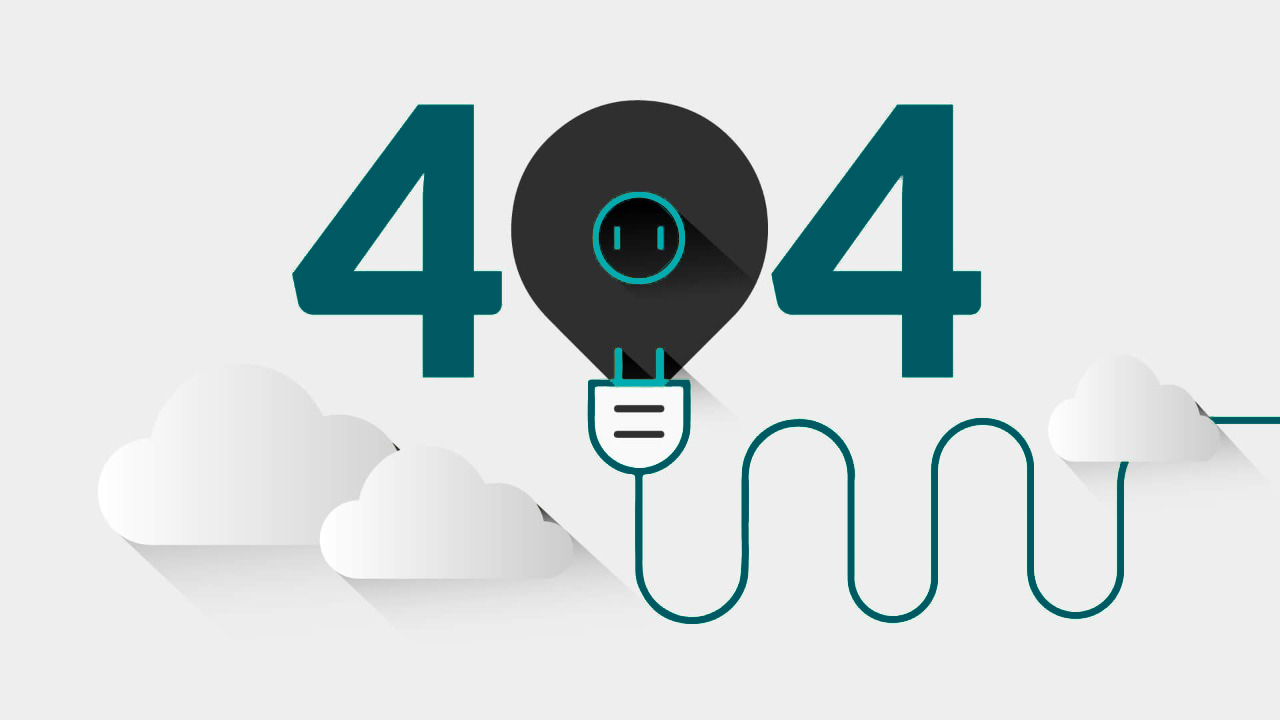
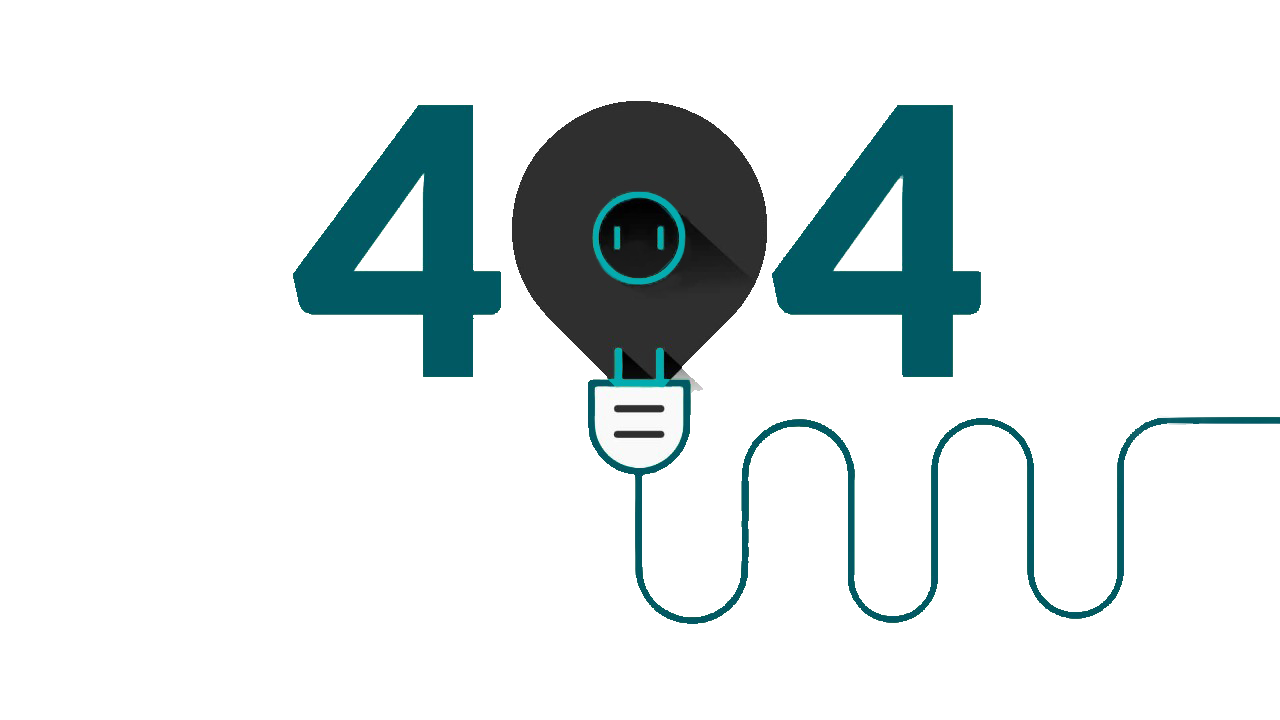
animation done

diff --git a/src/features/account/SignUpForm.jsx b/src/features/account/SignUpForm.jsx
@@ -1,12 +1,31 @@
 import React from 'react'
 import './account.scss'
-import { Link } from 'react-router-dom'
+import { Link, useHistory } from 'react-router-dom'
 import { Formik, Form } from 'formik'
 import * as Yup from 'yup'
-import { Container, Icon, Label, Button } from 'semantic-ui-react'
+import { Container, Icon, Button } from 'semantic-ui-react'
 import { MyInputField } from './MyInputFields.jsx'
+import { toast, Slide } from 'react-toastify'
+import 'react-toastify/dist/ReactToastify.css'
+import { registerInFirebase } from '../../app/firestore/firebaseService'
 
-export const SignUpForm = ({showOptions}) => {
+export const SignUpForm = ({ showOptions }) => {
+    
+    const history = useHistory()
+    const showError = (message) => {
+        toast.error(message, {
+            position: "bottom-center",
+            autoClose: 3000,
+            hideProgressBar: true,
+            closeOnClick: false,
+            pauseOnHover: false,
+            draggable: false,
+            progress: undefined,
+            transition: Slide,
+            theme: 'colored',
+            pauseOnFocusLoss: false
+        })
+    }
     
     return (
         <div className='signup-form'>
@@ -17,7 +36,7 @@ export const SignUpForm = ({showOptions}) => {
                     initialValues={{email: '', password: ''}}
                     validationSchema={
                         Yup.object({
-                            username: Yup.string().required('Username is required!'),
+                            displayName: Yup.string().required('Username is required!'),
                             email: Yup.string().required('Email is required!').email('Please enter a valid email!'),
                             password: Yup.string().required('Password is required!').matches(
                                 /^(?=.*[A-Z])/, 'Password must contain one uppercase letter!').matches(
@@ -27,18 +46,26 @@ export const SignUpForm = ({showOptions}) => {
                                 'Confirm Password is required!')
                         })
                     }
-                    onSubmit={(values, {setSubmitting}) => {
-                        setSubmitting(true)
-                        // make async call
-                        console.log(values)
-                        setSubmitting(false)
+                    onSubmit={async (values, {setSubmitting}) => {
+                            setSubmitting(true)
+                            try {
+                                await registerInFirebase(values)
+                                history.push('/')
+                            } catch (error) {
+                                if (error.code === 'auth/network-request-failed')
+                                    showError('Check your internet connection!')
+                                else
+                                    showError('Email already is use!')
+                            } finally {
+                                setSubmitting(false)
+                            }
                         }
                     }
                 >
-                    {({isSubmitting, isValid, dirty, errors}) => (
+                    {({isSubmitting, isValid, dirty}) => (
                         <Form className='ui form'>
                             <MyInputField
-                                name='username'
+                                name='displayName'
                                 placeholder='Enter your username'
                                 icon={<Icon className='icon' name='user' />} />
                             <MyInputField
@@ -55,7 +82,6 @@ export const SignUpForm = ({showOptions}) => {
                                 placeholder='Confirm your password'
                                 type='password'
                                 icon={<Icon className='icon' name='lock' />} />
-                            {errors.auth && <Label basic color='red' style={{marginBottom: 10}} content={errors.auth} />}
                             <Button
                                 type='submit'
                                 loading={isSubmitting}

diff --git a/src/features/navbar/Navbar.jsx b/src/features/navbar/Navbar.jsx
@@ -55,25 +55,24 @@ export const Navbar = () => {
                 <Label className='nav-label mobile-view' basic content='2072 Pinnickicick Street, WA 98370' icon='map marker alternate' />
                 <Label className='nav-label mobile-view' basic content='info@website.com' icon='mail outline' />
                 <Dropdown
-                    text={authenticated ? currentUser.email : 'Account'}
-                    icon='user outline'
-                    labeled
+                    text={authenticated ? 'Hi! ' + currentUser.email : 'Account'}
+                    icon={authenticated ? 'caret down' : 'user outline'}
+                    labeled={authenticated ? false : true}
                     button
                     className='nav-label account icon'
                     style={{ float: 'right' }}
                 >
-                    <Dropdown.Menu className='dropdown'>
-                        <Dropdown.Item className='item'>
-                            {authenticated
-                                ? <Link className='sign-link' to='/profile'><Icon name='settings' />&nbsp;&nbsp;Profile Settings</Link>
-                                : <Link className='sign-link' to='/login'><Icon name='sign in' />&nbsp;&nbsp;Login</Link>}
-                        </Dropdown.Item>
-                        <Dropdown.Item className='item'>
-                            {authenticated
-                                ? <p className='sign-link' onClick={() => handleSignOut()}><Icon name='sign out alternate' />&nbsp;&nbsp;Sign Out</p>
-                                : <Link className='sign-link' to='/signup'><Icon name='signup' />&nbsp;&nbsp;Sign Up</Link>}
-                        </Dropdown.Item>
-                    </Dropdown.Menu>
+                    {authenticated
+                        ? <Dropdown.Menu className='dropdown'>
+                            <Dropdown.Item className='item' as={NavLink} to='/profile'>Profile</Dropdown.Item>
+                            <Dropdown.Item className='item' as={NavLink} to='/appointments'>Appt. History</Dropdown.Item>
+                            <Dropdown.Item className='item' as={NavLink} to='/favourite'>Favourites</Dropdown.Item>
+                            <Dropdown.Item className='item' onClick={() => handleSignOut()}>Logout</Dropdown.Item>
+                        </Dropdown.Menu>
+                        : <Dropdown.Menu className='dropdown'>
+                            <Dropdown.Item className='item' as={NavLink} to='/login'><Icon name='sign in' />&nbsp;&nbsp;Login</Dropdown.Item>
+                            <Dropdown.Item className='item' as={NavLink} to='/signup'><Icon name='signup' />&nbsp;&nbsp;Sign Up</Dropdown.Item>
+                        </Dropdown.Menu>}
                 </Dropdown>
             </div>
             <Menu className='nav-bottom' secondary>

diff --git a/src/features/wrongURL/WrongURL.jsx b/src/features/wrongURL/WrongURL.jsx
@@ -8,9 +8,9 @@ export const WrongURL = () => {
         <div className='wrong-url'>
             <Container className='animation-container'>
                 <Image src={'/assets/wrongURL/wrongURL.png'} />
-                <div className='animation cloud1'><Image src={'/assets/wrongURL/cloud1.jpg'} /></div>
-                <div className='animation cloud2'><Image src={'/assets/wrongURL/cloud1.jpg'} /></div>
-                <div className='animation cloud3'><Image src={'/assets/wrongURL/cloud1.jpg'} /></div>
+                <div className='animation cloud1' style={{width: '60%'}}><Image src={'/assets/wrongURL/cloud85.png'} /></div>
+                <div className='animation cloud2' style={{width: '30%'}}><Image src={'/assets/wrongURL/cloud100.png'} /></div>
+                <div className='animation cloud3' style={{width: '80%'}}><Image src={'/assets/wrongURL/cloudSingle.png'} /></div>
             </Container>
         </div>
     )

diff --git a/src/features/wrongURL/wrongURL.scss b/src/features/wrongURL/wrongURL.scss
@@ -8,37 +8,36 @@
 }
 
 .wrong-url .animation {
-    width: 20%;
     position: absolute;
     animation-duration: 2s;
-    animation: mymove 8s infinite;
+    animation: mymove 12s infinite;
     animation-iteration-count: infinite;
     animation-direction: alternate-reverse;
 }
 
 .wrong-url .cloud1 {
-    bottom: 60%;
+    bottom: 50%;
     animation-timing-function: linear;
     animation-delay: -2s;
 }
 
 .wrong-url .cloud2 {
-    bottom: 35%;
+    bottom: 20%;
     animation-timing-function: ease-in-out;
 }
 
 .wrong-url .cloud3 {
-    bottom: 25%;
+    bottom: 30%;
     animation-timing-function: ease-in;
     animation-delay: -6s;
 }
 
 @keyframes mymove {
     from {
-        left: -35%;
+        left: -50%;
     }
 
     to {
-        left: 115%;
+        left: 130%;
     }
 }

diff --git a/src/app/firestore/firebaseService.js b/src/app/firestore/firebaseService.js
@@ -1,4 +1,5 @@
 import firebase from "../config/firebase"
+import { setUserProfileData } from "./firebaseStore"
 
 export const signInWithEmail = (creds) => {
     return firebase
@@ -8,4 +9,19 @@ export const signInWithEmail = (creds) => {
 
 export const signOutFirebase = () => {
     return firebase.auth().signOut()
+}
+
+export async function registerInFirebase(creds) {
+    try{
+        const result = await firebase
+            .auth()
+            .createUserWithEmailAndPassword(creds.email, creds.password)
+        await result.user.updateProfile({
+            displayName: creds.displayName
+        })
+        return await setUserProfileData(result.user)
+    } catch (error) {
+        console.log(error)
+        throw error
+    }
 }

diff --git a/src/features/navbar/navbar.scss b/src/features/navbar/navbar.scss
@@ -79,13 +79,20 @@ $fontLarge: 'Heebo', sans-serif;
   background-color: transparent !important;
 }
 
-.account .dropdown .sign-link {
-  color: $dark;
+.account .dropdown .item {
+  color: $dark !important;
 }
 
 .account .dropdown .item:hover {
-  background-color: $purplish !important;
+  background-color: $dark !important;
+  color: $white !important;
 }
+
+.account .dropdown .item.active {
+  background-color: $dark !important;
+  color: $white !important;
+}
+
 
 //Responsive Tablet
 

diff --git a/src/app/firestore/firebaseStore.js b/src/app/firestore/firebaseStore.js
@@ -1,0 +1,14 @@
+import firebase from '../config/firebase'
+
+const db = firebase.firestore()
+
+export const setUserProfileData = (user) => {
+    return db.collection('users').doc(user.uid).set({
+        displayName: user.displayName,
+        email: user.email,
+        photoURL: user.photoURL || null,
+        phone: user.phone || null,
+        address: user.address || null,
+        createdAt: firebase.firestore.FieldValue.serverTimestamp()
+    })
+}

diff --git a/src/features/account/Login.jsx b/src/features/account/Login.jsx
@@ -7,7 +7,7 @@ import { Container, Icon, Button, Grid } from 'semantic-ui-react'
 import { MyInputField } from './MyInputFields.jsx'
 import { signInWithEmail } from '../../app/firestore/firebaseService'
 import { toast, Slide } from 'react-toastify'
-import 'react-toastify/dist/ReactToastify.css';
+import 'react-toastify/dist/ReactToastify.css'
 
 export const Login = () => {
 
